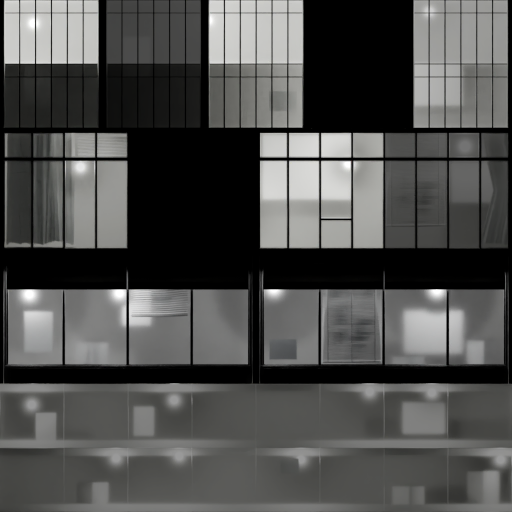
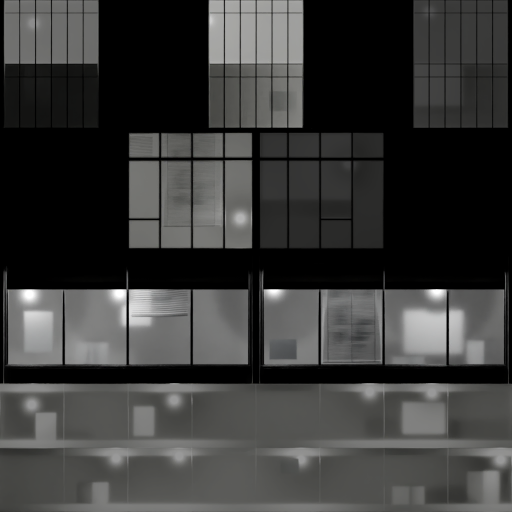
Night: office towers dimmer, about half their bays dark (Manhattan glowed white all over)
TGForever Discord 2026-10-28 (1.7.0): "in manhattan ... a lot of the buildings look overly bright at night where the
whole building is glowing not just the windows". Every floor of a curtain wall takes the same band of the metal
sheet, so a lit bay is lit from street to roof, and the map lit most bays at 150 nits. OFFICE_BAYS: band 0
(0.55, 0, 0.8, 0, 0.3), band 1 (0, 0.7, 0.25, 0); bne_bld_office 70 nits. Seen in game at Midtown at night.

Claude-Session: https://claude.ai/code/session_01KnTDPZC5MxXWpBuDGJtvND

diff --git a/tools/build_night_windows.py b/tools/build_night_windows.py
@@ -41,7 +41,9 @@ WARMER = (1.0, 0.62, 0.30)
 COOL = (0.78, 0.86, 1.0)       # cool white, ~5000 K
 # The metal sheet (512 px): its bands 128 px high (BAND_OFFICE: 5 bays, BAND_OFFICE2: 4, BAND_SHOP: 2) and a factor
 # per bay (1 lit, lower dimmed, 0 dark)
-OFFICE_BAYS = [(5, (1.0, 0.35, 1.0, 0.0, 0.8)), (4, (0.9, 0.0, 1.0, 0.45)), (2, (1.0, 1.0)), (1, (0.6,))]
+# (fewer and dimmer than the stock map's every bay: every floor of a curtain wall takes the same band, so a lit bay is lit
+# from street to roof, and Manhattan's towers glowed white all over, TGForever Discord 2026-10-28)
+OFFICE_BAYS = [(5, (0.55, 0.0, 0.8, 0.0, 0.3)), (4, (0.0, 0.7, 0.25, 0.0)), (2, (1.0, 1.0)), (1, (0.6,))]
 
 
 def _read(zf, name):
